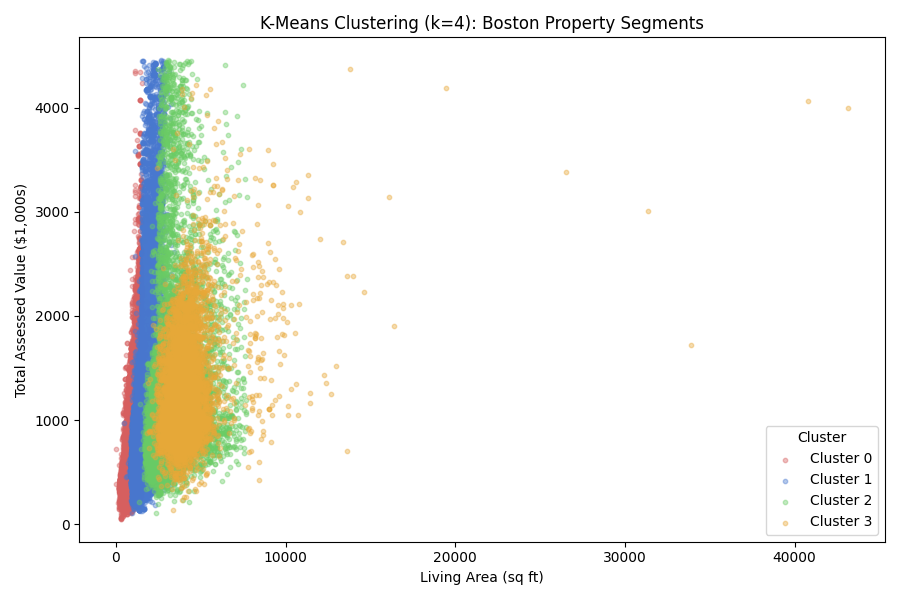
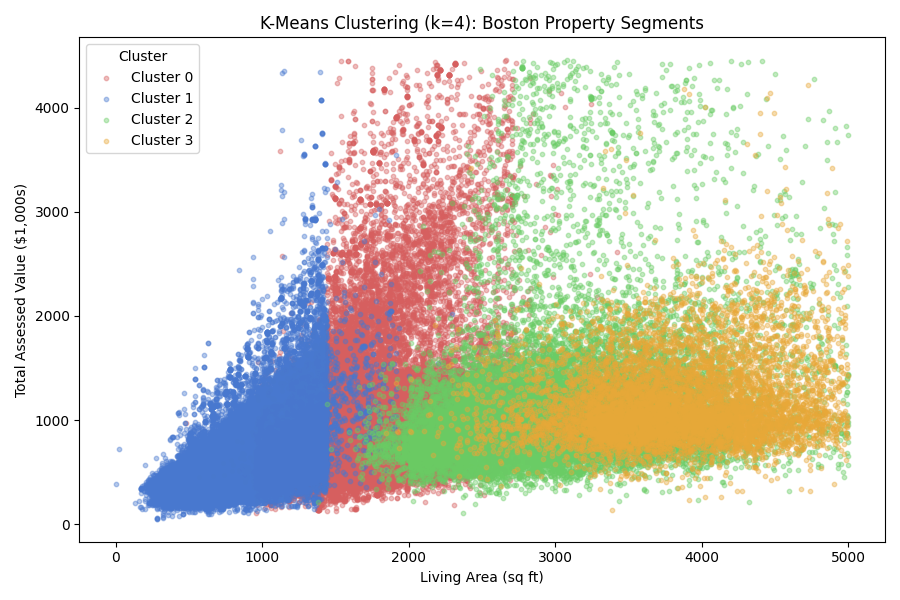
corected wrongly showing plots

diff --git a/src/visualize.py b/src/visualize.py
@@ -34,15 +34,19 @@ def main():
     print("Saved: target_distribution.png")
 
     # Living area vs value (strongest numeric predictor)
-    corr_area = df["LIVING_AREA"].corr(df["TOTAL_VALUE"])
+    # Cap at 5,000 sq ft — R4 multi-family buildings reach 43k sq ft (whole-building total),
+    # which would compress 99% of residential data into an unreadable bottom-left cluster
+    AREA_CAP = 5_000
+    df_area = df[df["LIVING_AREA"] <= AREA_CAP]
+    corr_area = df_area["LIVING_AREA"].corr(df_area["TOTAL_VALUE"])
     fig, ax = plt.subplots(figsize=(7, 5))
-    ax.scatter(df["LIVING_AREA"], df["TOTAL_VALUE"] / 1_000, alpha=0.3, s=8, color="#4878CF")
-    m, b = np.polyfit(df["LIVING_AREA"], df["TOTAL_VALUE"] / 1_000, 1)
-    x_line = np.linspace(df["LIVING_AREA"].min(), df["LIVING_AREA"].max(), 100)
+    ax.scatter(df_area["LIVING_AREA"], df_area["TOTAL_VALUE"] / 1_000, alpha=0.3, s=8, color="#4878CF")
+    m, b = np.polyfit(df_area["LIVING_AREA"], df_area["TOTAL_VALUE"] / 1_000, 1)
+    x_line = np.linspace(df_area["LIVING_AREA"].min(), df_area["LIVING_AREA"].max(), 100)
     ax.plot(x_line, m * x_line + b, color="red", linewidth=1.5, label="Trend line")
     ax.set_xlabel("Living Area (sq ft)")
     ax.set_ylabel("Total Assessed Value ($1,000s)")
-    ax.set_title(f"Living Area vs Assessed Value  (r = {corr_area:.2f})")
+    ax.set_title(f"Living Area vs Assessed Value  (r = {corr_area:.2f}, LIVING_AREA ≤ {AREA_CAP:,} sq ft)")
     ax.legend()
     plt.tight_layout()
     plt.savefig(f"{PLOTS_DIR}/scatter_area_vs_value.png", dpi=100)
@@ -50,15 +54,19 @@ def main():
     print("Saved: scatter_area_vs_value.png")
 
     # Bedrooms vs value
-    corr_beds = df["BED_RMS"].corr(df["TOTAL_VALUE"])
+    # Cap at 8 — R4 multi-family buildings record total bedrooms across all units,
+    # so a 4-family with 5 beds each shows as 20, distorting the trend line
+    BED_CAP = 8
+    df_beds = df[df["BED_RMS"] <= BED_CAP]
+    corr_beds = df_beds["BED_RMS"].corr(df_beds["TOTAL_VALUE"])
     fig, ax = plt.subplots(figsize=(7, 5))
-    ax.scatter(df["BED_RMS"], df["TOTAL_VALUE"] / 1_000, alpha=0.3, s=8, color="#D65F5F")
-    m, b = np.polyfit(df["BED_RMS"], df["TOTAL_VALUE"] / 1_000, 1)
-    x_line = np.linspace(df["BED_RMS"].min(), df["BED_RMS"].max(), 100)
+    ax.scatter(df_beds["BED_RMS"], df_beds["TOTAL_VALUE"] / 1_000, alpha=0.3, s=8, color="#D65F5F")
+    m, b = np.polyfit(df_beds["BED_RMS"], df_beds["TOTAL_VALUE"] / 1_000, 1)
+    x_line = np.linspace(df_beds["BED_RMS"].min(), df_beds["BED_RMS"].max(), 100)
     ax.plot(x_line, m * x_line + b, color="black", linewidth=1.5, label="Trend line")
     ax.set_xlabel("Number of Bedrooms")
     ax.set_ylabel("Total Assessed Value ($1,000s)")
-    ax.set_title(f"Bedrooms vs Assessed Value  (r = {corr_beds:.2f})")
+    ax.set_title(f"Bedrooms vs Assessed Value  (r = {corr_beds:.2f}, BED_RMS ≤ {BED_CAP})")
     ax.legend()
     plt.tight_layout()
     plt.savefig(f"{PLOTS_DIR}/scatter_beds_vs_value.png", dpi=100)

diff --git a/src/train_model.py b/src/train_model.py
@@ -177,8 +177,10 @@ def main():
     print("Saved: decision_tree.png")
 
     # K-Means: exploration only — segments properties by size and bedroom count
+    # Cap at 5,000 sq ft so multi-family outliers don't collapse all clusters into the left edge
     cluster_features = ["LIVING_AREA", "BED_RMS"]
     df_cluster = df[cluster_features + [TARGET_COLUMN]].dropna().copy()
+    df_cluster = df_cluster[df_cluster["LIVING_AREA"] <= 5_000]
 
     scaler = StandardScaler()
     X_cluster = scaler.fit_transform(df_cluster[cluster_features])

diff --git a/src/clean_data.py b/src/clean_data.py
@@ -4,7 +4,7 @@ import os
 RAW_DATA_PATH = "data/raw/fy2025_property_assessment.csv"
 PROCESSED_DATA_PATH = "data/processed/boston_clean.csv"
 
-# Residential land use codes — exclude commercial, industrial, tax-exempt, etc.
+# Residential land use codes — exclude commercial, industrial, tax-exempt, CD = Residential Condominium Unit , 73,394 records out of 183,445 totaletc.
 RESIDENTIAL_LU = {"R1", "R2", "R3", "R4", "CD"}
 
 # Leakage: LAND_VALUE + BLDG_VALUE = TOTAL_VALUE; GROSS_TAX and SFYI_VALUE are derived from it
